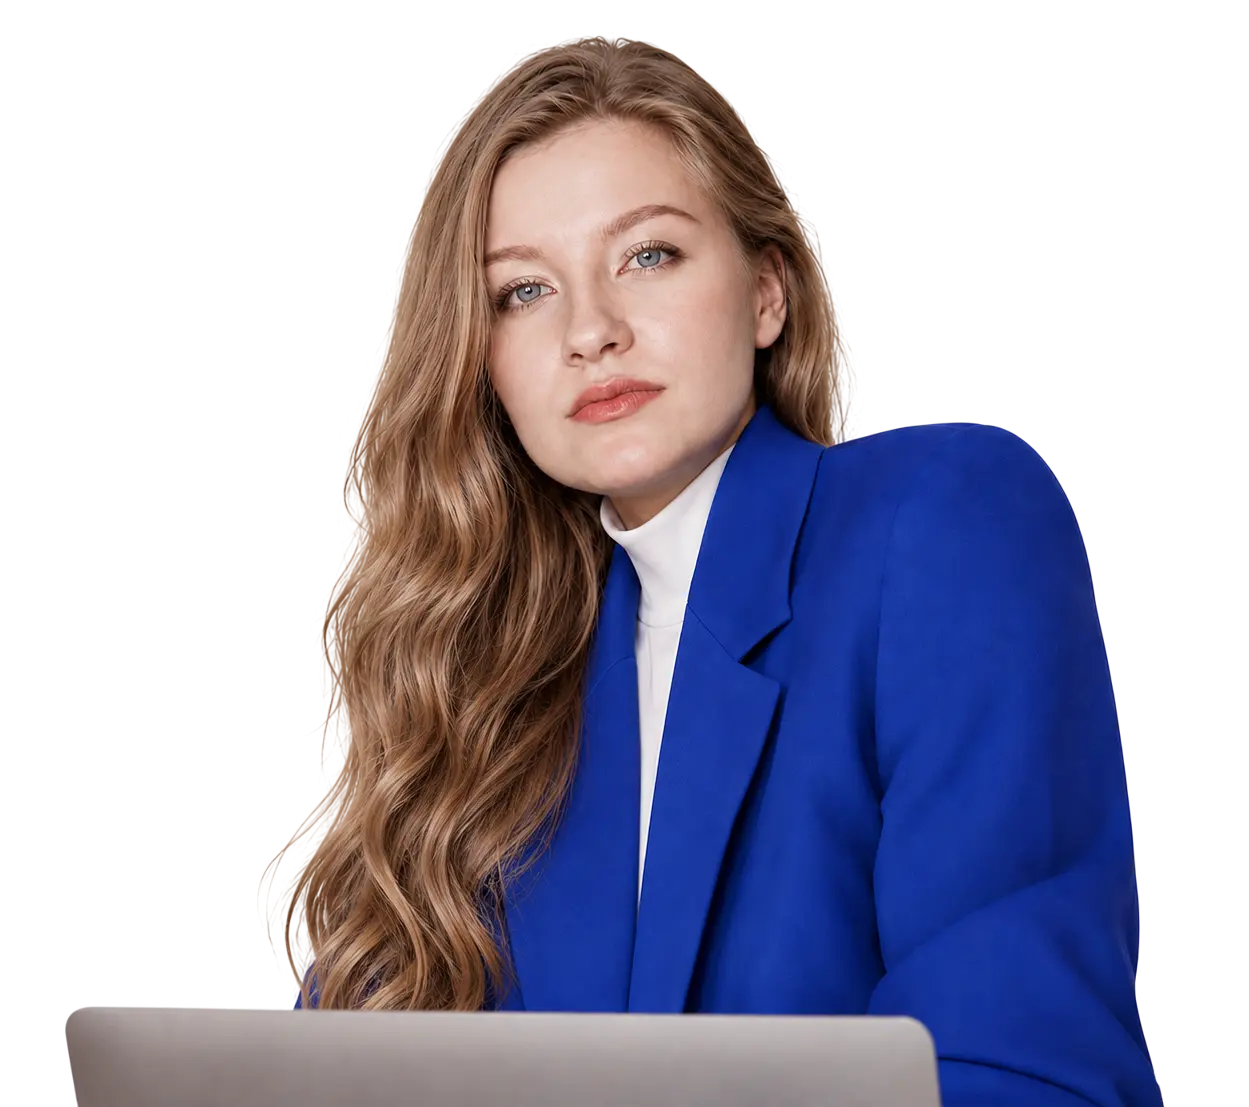
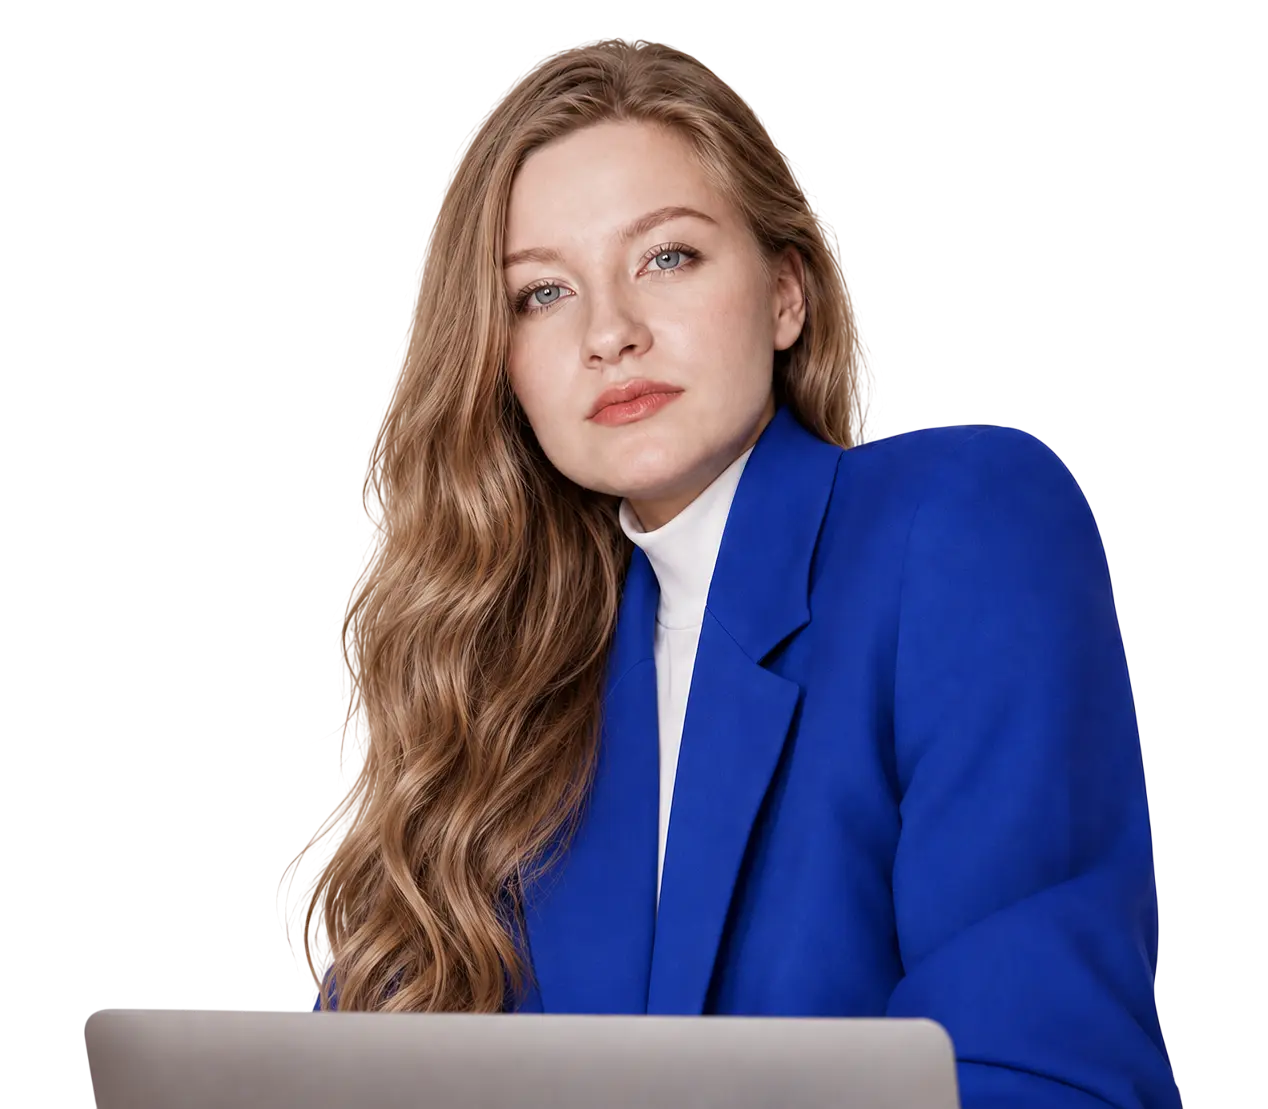
+

diff --git a/src/app/page.tsx b/src/app/page.tsx
@@ -80,7 +80,7 @@ export default function Home() {
             </div> */}
 
             <div className="z-20 flex items-center justify-center w-full h-full">
-              <div className="relative w-full max-w-[904px] h-full">
+              <div className="relative w-full max-w-[915px] h-full">
                 <picture className="w-full h-full">
                   <source srcSet="/img/portrait/photo1.webp" media="(min-width: 1200px)" />
                   <source srcSet="/img/portrait/photo_1-960.webp" media="(min-width: 960px)" />

diff --git a/src/components/Header.tsx b/src/components/Header.tsx
@@ -128,7 +128,7 @@ export function Header({ isWhite = false }: Props) {
 
           <Link
             className="flex items-center pr-24 border-none opacity-90 border-solid border-blackText color-blackText gap-2 rounded-l-[100px] border-r-0 bg-grayNetwork px-3 py-2 pb-2.5 transition hover:bg-grayHover hover:border-transparent"
-            href="#"
+            href="https://t.me/Allegory23"
             >
               <Svg
               className="w-full h-full"
